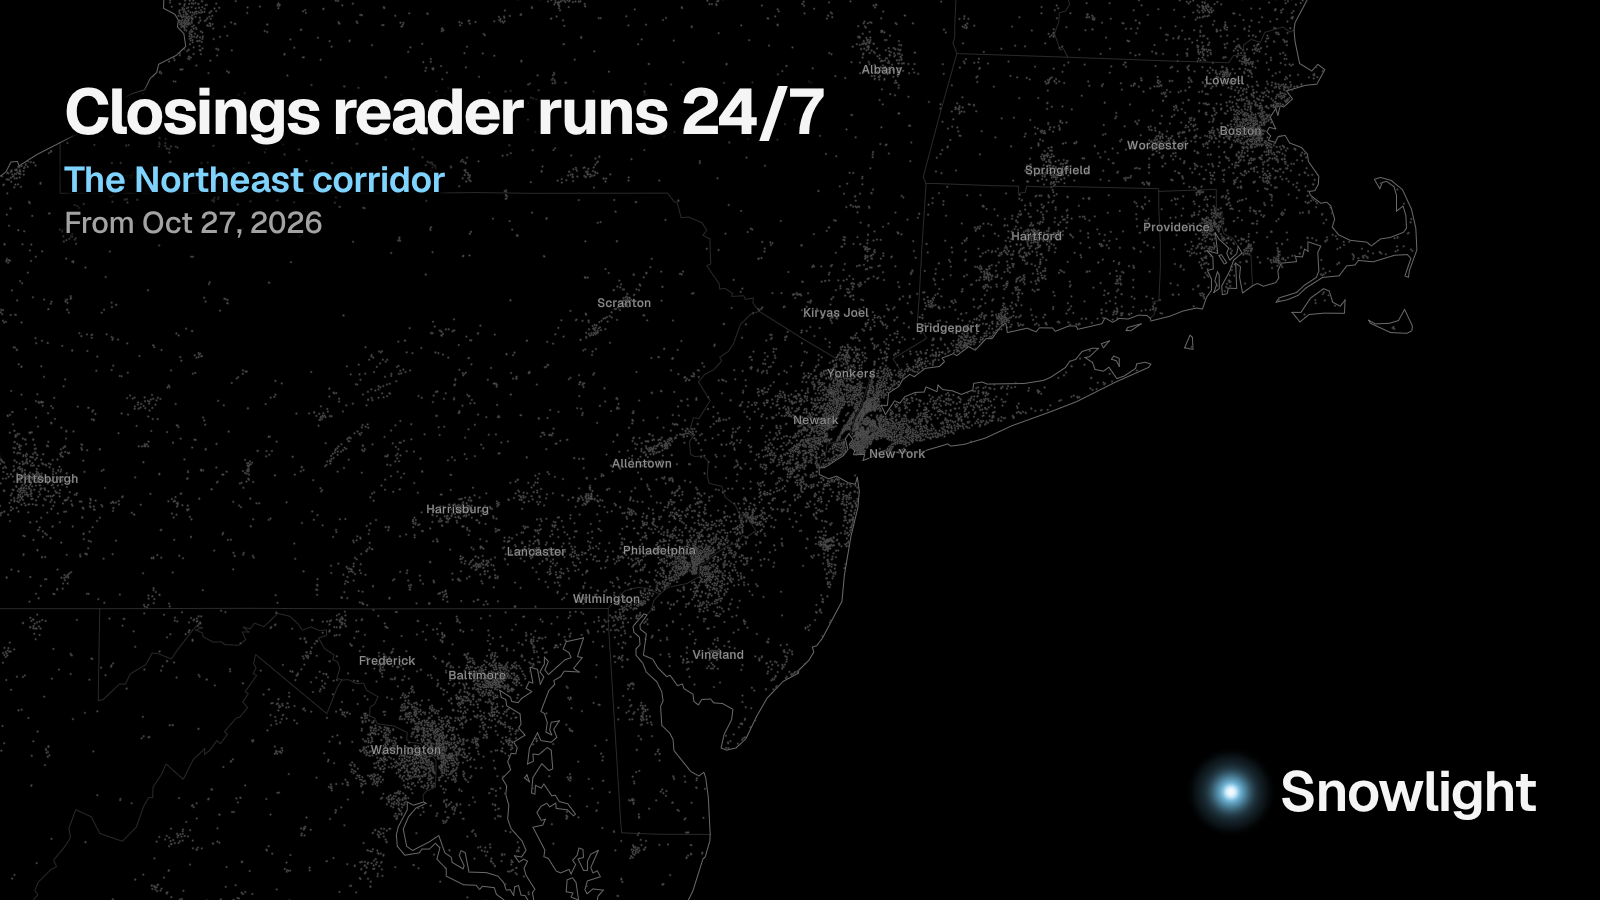
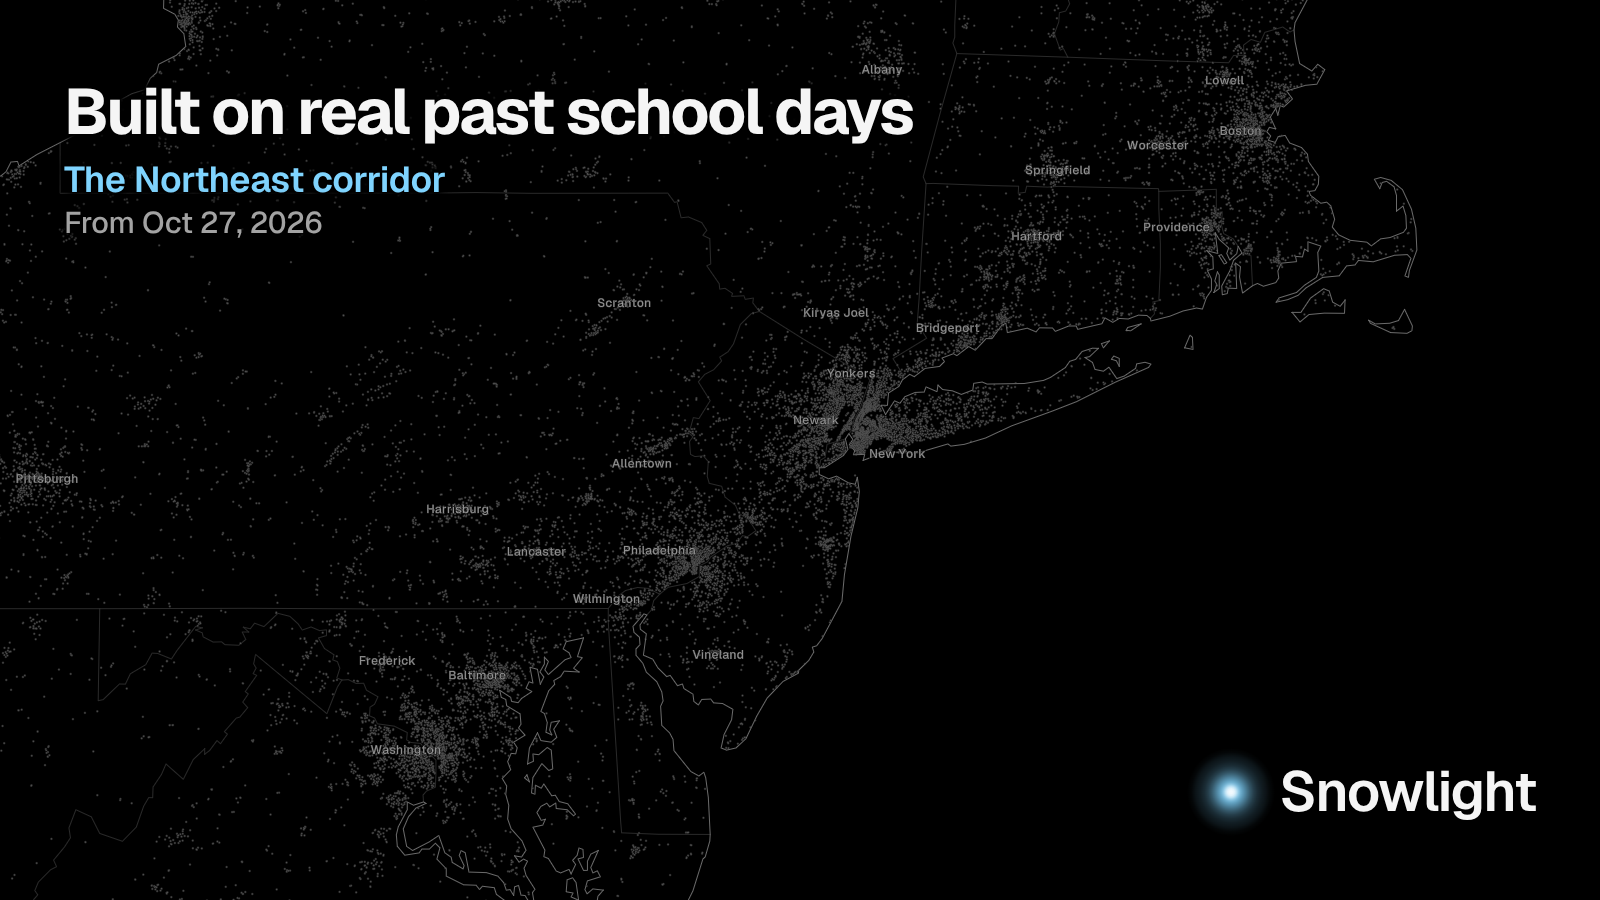
Step a closings view of a few lit schools back until it holds 400 school specks, so they sit among the towns around them, and re-render the library's Northeast corridor cards with the plain headline and the honest description.
Claude-Session: https://claude.ai/code/session_018FxesH13b1FGUUg5BrwDpT

Changed region(s): [[0.0312, 0.0933, 0.5938, 0.1556]]

diff --git a/pipeline/tests/social/test_picture.py b/pipeline/tests/social/test_picture.py
@@ -17,9 +17,11 @@ from snowlight.social.picture import (
     REGIONS,
     WIDTH,
     ZOOM,
+    ZOOM_STEP,
     Counts,
     Directory,
     PictureError,
+    _held,
     _states,
     busiest_view,
     calm_regions,
@@ -728,10 +730,14 @@ def test_while_closings_are_not_live_lit_schools_give_the_calm_national_map() ->
     assert not calm.seen.closings_read
 
 
-def test_few_lit_schools_fill_the_card_zoomed_in_with_every_one_in_the_box() -> None:
-    """Two lit schools a few miles apart (SYNTHETIC): the view zooms in as far as
-    :data:`MAX_ZOOM` allows, both in the middle box, so their glow and the specks around them
-    fill the card instead of a dot in a dark country."""
+def test_few_lit_schools_fill_the_card_zoomed_in_with_every_one_in_the_box(
+    monkeypatch: pytest.MonkeyPatch,
+) -> None:
+    """Two lit schools a few miles apart (SYNTHETIC), in a place dense with schools (no
+    minimum of specks to meet): the view zooms in as far as :data:`MAX_ZOOM` allows, both in
+    the middle box, so their glow and the specks around them fill the card instead of a dot
+    in a dark country."""
+    monkeypatch.setattr("snowlight.social.picture.MIN_SPECKS", 0)
     picture = choose(
         chances=False,
         closings_shown=True,
@@ -772,9 +778,12 @@ def test_a_wide_spread_of_lit_schools_keeps_the_widest_closings_view() -> None:
     assert len(picture.seen.spots) == picture.seen.in_view.total
 
 
-def test_lit_private_schools_say_the_view_s_place_never_where_the_schools_are() -> None:
+def test_lit_private_schools_say_the_view_s_place_never_where_the_schools_are(
+    monkeypatch: pytest.MonkeyPatch,
+) -> None:
     """Two lit private schools (their ids name no state) near Buffalo (SYNTHETIC): no "mostly
     in", but the view's own place by its public schools' share, "in a view over New York"."""
+    monkeypatch.setattr("snowlight.social.picture.MIN_SPECKS", 0)
     ids = (*SCHOOLS, "A0000001", "A0000002")
     points = Points(
         lon_e6=np.asarray([round(v * 1e6) for v in (*LON, -78.86, -78.84)], dtype=np.int32),
@@ -799,3 +808,29 @@ def test_lit_private_schools_say_the_view_s_place_never_where_the_schools_are() 
     assert picture.seen.place == "New York"
     assert ", in a view over New York." in picture.shows
     assert "mostly" not in picture.shows
+
+
+@pytest.mark.parametrize("specks", [7, 8])
+def test_a_closer_view_steps_back_until_it_holds_enough_school_specks(
+    monkeypatch: pytest.MonkeyPatch, specks: int
+) -> None:
+    """Two lit schools in Buffalo (SYNTHETIC) where the picture must hold ``specks`` of the
+    directory's schools: the view steps back from :data:`MAX_ZOOM` by :data:`ZOOM_STEP` only
+    until it does (the six Buffalo schools and one or both in Pennsylvania), never past
+    :data:`ZOOM`, and both lit schools stay in the middle box."""
+    monkeypatch.setattr("snowlight.social.picture.MIN_SPECKS", specks)
+    picture = choose(
+        chances=False,
+        closings_shown=True,
+        closings=closings([(0, 0), (1, 0)], "2026-12-10", "2026-12-10T12:05:00Z"),
+        predictions=None,
+        directory=directory(),
+        now=at("2026-12-10T12:10"),
+    )
+    lat, lon, zoom = (float(part) for part in picture.query.removeprefix("?at=").split(","))
+    assert ZOOM < zoom < MAX_ZOOM
+    assert _held(directory().points, (lon, lat), zoom) >= specks
+    assert _held(directory().points, (lon, lat), zoom + ZOOM_STEP) < specks
+    for x, y in picture.seen.spots:
+        assert abs(x - WIDTH / 2) <= FIT_BOX[0] / 2 + 1
+        assert abs(y - HEIGHT / 2) <= FIT_BOX[1] / 2 + 1

diff --git a/pipeline/snowlight/social/picture.py b/pipeline/snowlight/social/picture.py
@@ -67,6 +67,11 @@ site still draws every school around them as a speck."""
 FIT_BOX: Final = (800.0, 400.0)
 """The box in the middle of the picture (width, height in pixels) a closings view zoomed past
 :data:`ZOOM` keeps every lit school of its window in, clear of the card's corners."""
+MIN_SPECKS: Final = 400
+"""The schools a closings view zoomed past :data:`ZOOM` holds at least (when a closer view
+holds fewer, it steps back by :data:`ZOOM_STEP`), so a few lit schools in the country sit among
+the specks of the towns around them, not alone in the dark."""
+ZOOM_STEP: Final = 0.25
 MOSTLY: Final = 0.5
 """A description says "mostly" of states only when they hold more than this share."""
 SECOND_STATE: Final = 0.15
@@ -391,12 +396,23 @@ def unproject(x: float, y: float, zoom: float) -> tuple[float, float]:
     return lon, lat
 
 
+def _held(points: Points, center: tuple[float, float], zoom: float) -> int:
+    """How many of the directory's schools a picture at ``center`` (lon, lat) and ``zoom``
+    holds."""
+    x, y = project(
+        points.lon_e6.astype(np.float64) / 1e6, points.lat_e6.astype(np.float64) / 1e6, zoom
+    )
+    cx, cy = project(np.array([center[0]]), np.array([center[1]]), zoom)
+    return int(((np.abs(x - cx[0]) <= WIDTH / 2) & (np.abs(y - cy[0]) <= HEIGHT / 2)).sum())
+
+
 def _fit(
-    lon: npt.NDArray[np.float64], lat: npt.NDArray[np.float64]
+    lon: npt.NDArray[np.float64], lat: npt.NDArray[np.float64], points: Points
 ) -> tuple[tuple[float, float], float] | None:
     """The center (lon, lat) and zoom past :data:`ZOOM` (at most :data:`MAX_ZOOM`, two
     decimals, rounded down) at which every point fits :data:`FIT_BOX` in the middle of the
-    picture; ``None`` when they span too much to zoom past :data:`ZOOM`."""
+    picture, stepped back while the picture holds fewer than :data:`MIN_SPECKS` of the
+    directory's schools; ``None`` when they span too much to zoom past :data:`ZOOM`."""
     x, y = project(lon, lat, 0.0)
     span_x = max(float(x.max() - x.min()), 1e-12)
     span_y = max(float(y.max() - y.min()), 1e-12)
@@ -405,10 +421,11 @@ def _fit(
     zoom = math.floor(min(fit, MAX_ZOOM) * 100) / 100
     if zoom <= ZOOM:
         return None
-    scale = 2.0**zoom
-    mid_x = float(x.min() + x.max()) / 2 * scale
-    mid_y = float(y.min() + y.max()) / 2 * scale
-    return unproject(mid_x, mid_y, zoom), zoom
+    # The middle of the points, in world pixels at zoom 0 (the same place at every zoom).
+    center = unproject(float(x.min() + x.max()) / 2, float(y.min() + y.max()) / 2, 0.0)
+    while zoom - ZOOM_STEP > ZOOM and _held(points, center, zoom) < MIN_SPECKS:
+        zoom = round(zoom - ZOOM_STEP, 2)
+    return center, zoom
 
 
 def busiest_view(
@@ -481,7 +498,7 @@ def _closings_picture(lit: Lit, directory: Directory, now: datetime) -> Picture:
     lat = points.lat_e6[lit.schools].astype(np.float64) / 1e6
     (center_lon, center_lat), held = busiest_view(lon, lat)
     zoom: float = ZOOM
-    if (closer := _fit(lon[held], lat[held])) is not None:
+    if (closer := _fit(lon[held], lat[held], points)) is not None:
         (center_lon, center_lat), zoom = closer
     in_view = lit.schools[held]
     x, y = project(lon[held], lat[held], zoom)

diff --git a/pipeline/tests/social/test_post.py b/pipeline/tests/social/test_post.py
@@ -1219,7 +1219,10 @@ def test_the_noon_run_writes_when_the_morning_run_never_ran(tmp_path: Path, worl
     assert runner("schedule", ANTHROPIC_API_KEY=fakes.ANTHROPIC_KEY) == 0
     assert len(world.x.posts) == 1
     row = world.d1.row("SELECT day, state FROM social_haiku_days")
-    assert row == {"day": "2026-10-27#1", "state": f"drafted {draft_mark(GOOD_DEV_LOG['text'])}"}
+    assert row == {
+        "day": "2026-10-27#1",
+        "state": f"drafted {draft_mark(str(GOOD_DEV_LOG['text']))}",
+    }
 
 
 def test_a_run_that_lost_the_race_for_its_try_asks_haiku_nothing(
@@ -1275,7 +1278,7 @@ def test_a_draft_the_same_as_a_recent_haiku_post_is_never_sent(
     whose draft says the same as an earlier Haiku post (case and punctuation aside) is
     dropped and counts as a failed try."""
     runner = make(tmp_path, world, when="2026-10-27T00:41:00")
-    same = {**GOOD_DEV_LOG, "text": GOOD_DEV_LOG["text"].upper().replace(":", " -")}
+    same = {**GOOD_DEV_LOG, "text": str(GOOD_DEV_LOG["text"]).upper().replace(":", " -")}
     runs = [
         ("2026-10-27T00:41:00", GOOD_DEV_LOG),  # dev log, posted
         ("2026-10-27T13:07:00", GOOD_DRAFT),  # the waitlist post between

diff --git a/pipeline/tests/social/test_render.py b/pipeline/tests/social/test_render.py
@@ -282,7 +282,7 @@ def test_a_calm_region_must_draw_its_specks(served: tuple[Site, str], tmp_path: 
     [
         (True, 1, 0.0, "the map lit 1 schools; the description counts 0"),
         (False, 0, 0.0, "no lock check"),
-        (True, 0, 0.5, "the map opened at zoom 10, not the 9.5 asked"),
+        (True, 0, 0.5, "the map opened at zoom 7.25, not the 6.75 asked"),
     ],
 )
 def test_a_picture_that_does_not_match_is_dropped_after_one_retry(

diff --git a/docs/social.md b/docs/social.md
@@ -323,8 +323,9 @@ network at all:
    marks chances LIVE.
 2. `picture.py` picks the view from those files: the busiest picture-sized area of lit
    schools when closings light any today, zoomed closer (up to zoom 9.5) while every lit
-   school of it still fits the middle of the picture, so a few lit schools fill the card with
-   their glow and the specks around them; else, only while chances are LIVE, the district
+   school of it still fits the middle of the picture and the picture still holds at least 400
+   of the directory's schools, so a few lit schools sit among the specks of the towns around
+   them instead of a dot in a dark country; else, only while chances are LIVE, the district
    with the highest chance of no school (at least 10%), framed by its schools on the left;
    else a region's city lights: one of a short list of populous windows (the Northeast
    corridor, the Great Lakes, the Mid-Atlantic, the Texas triangle, the Front Range, the
